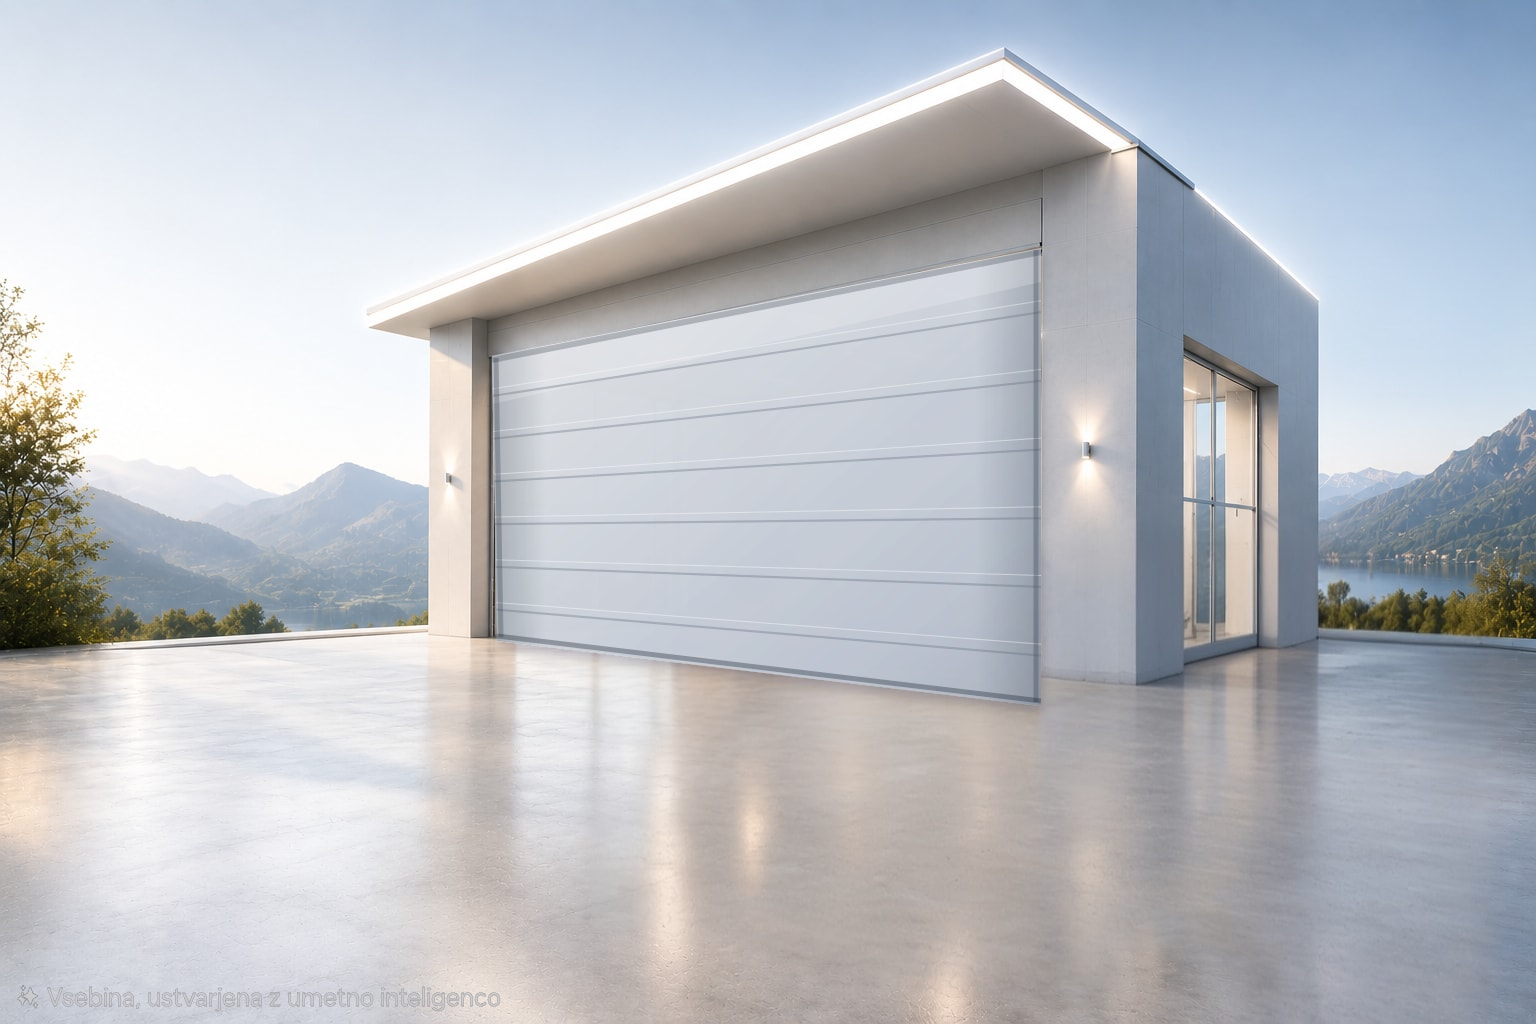
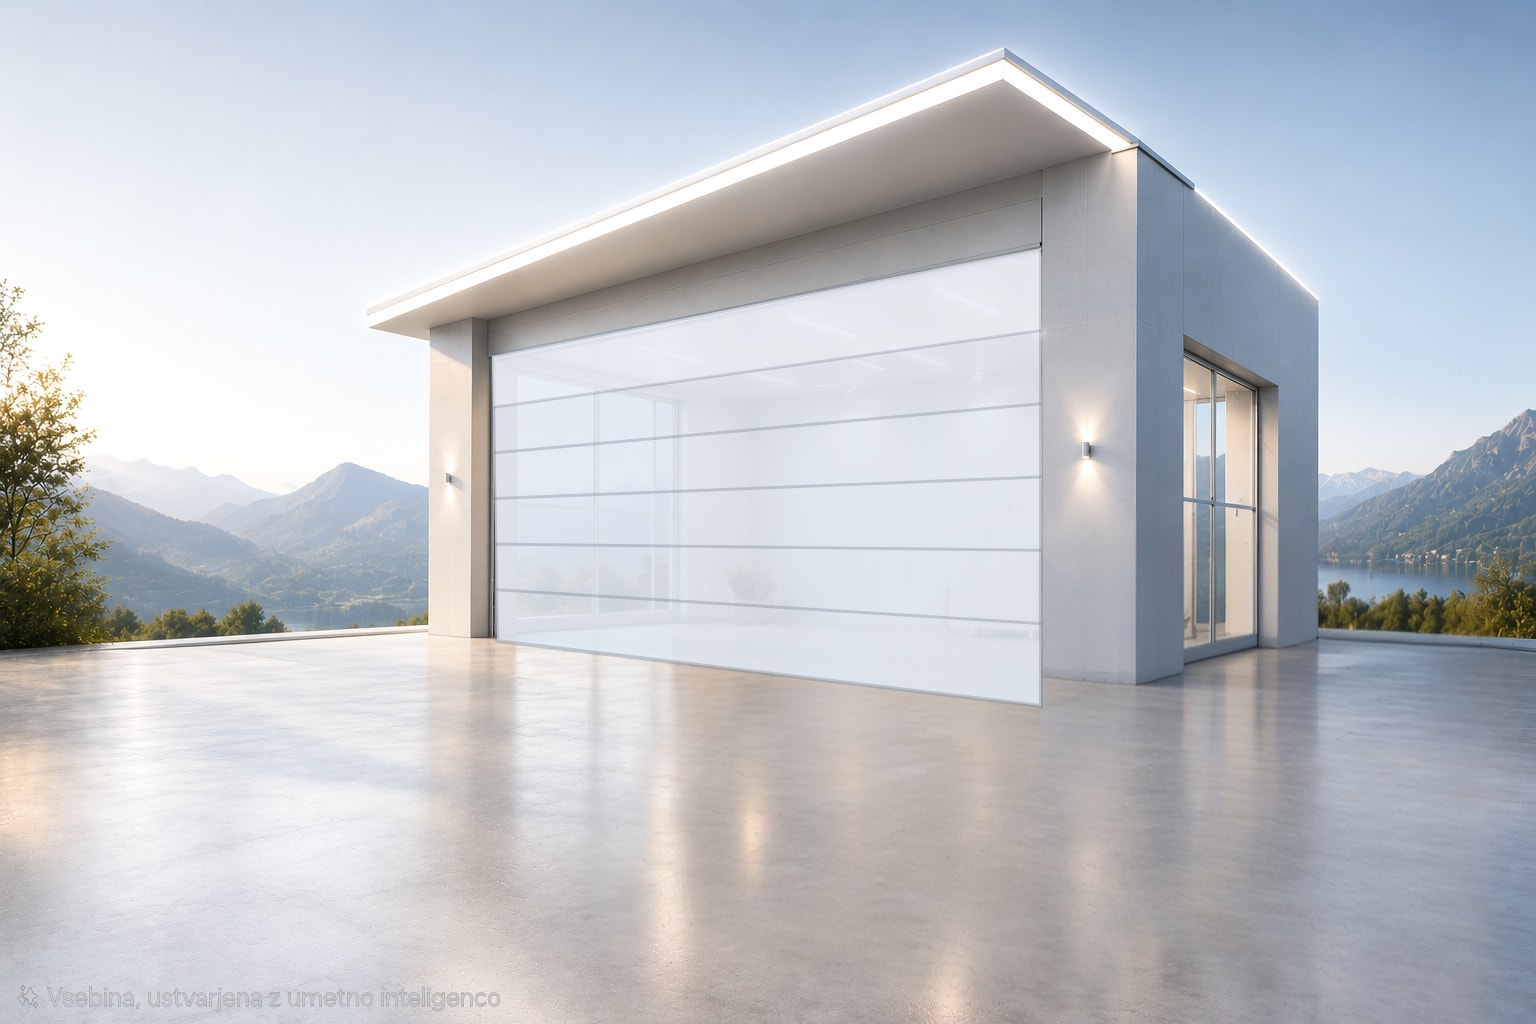
zgladi odpiranje garaze

Changed region(s): [[0.3125, 0.25, 0.6875, 0.6875], [0.3438, 0.3125, 0.4375, 0.3438]]

diff --git a/src/app/domov/page.tsx b/src/app/domov/page.tsx
@@ -150,9 +150,27 @@ export default function DomovPage() {
     return imageUrlWithVersion(raw, car?.slika_updated_at || car?.updated_at || car?.created_at || GARAGE_CACHE_VERSION)
   }
   const isLightTheme = theme === 'svetla'
-  const garageHeroFrames = isLightTheme
-    ? ['/home-garage-closed-light.jpg', '/home-garage-opening-1-light.jpg', '/home-garage-opening-2-light.jpg']
-    : ['/home-garage-closed-dark.jpg', '/home-garage-opening-1-dark.jpg', '/home-garage-opening-2-dark.jpg']
+  const garageHeroFrames = useMemo(() => (
+    isLightTheme
+      ? [
+        '/home-garage-closed-light.jpg',
+        '/home-garage-opening-1-light.jpg',
+        '/home-garage-opening-2-light.jpg',
+        '/home-garage-opening-3-light.jpg',
+        '/home-garage-opening-4-light.jpg',
+        '/home-garage-opening-5-light.jpg',
+        '/home-garage-open-light.jpg',
+      ]
+      : [
+        '/home-garage-closed-dark.jpg',
+        '/home-garage-opening-1-dark.jpg',
+        '/home-garage-opening-2-dark.jpg',
+        '/home-garage-opening-3-dark.jpg',
+        '/home-garage-opening-4-dark.jpg',
+        '/home-garage-opening-5-dark.jpg',
+        '/home-garage-open-dark.jpg',
+      ]
+  ), [isLightTheme])
   const heroImage = garageHeroFrames[Math.min(garageOpeningStep, garageHeroFrames.length - 1)]
 
   const carNameById = useMemo(() => {
@@ -193,10 +211,19 @@ export default function DomovPage() {
     }
     setGarageOpeningStep(0)
     setGarageOpening(true)
-    window.setTimeout(() => setGarageOpeningStep(1), 700)
-    window.setTimeout(() => setGarageOpeningStep(2), 1550)
-    window.setTimeout(() => router.push('/garaza'), 2850)
+    const frameDuration = 280
+    garageHeroFrames.forEach((_, index) => {
+      window.setTimeout(() => setGarageOpeningStep(index), index * frameDuration)
+    })
+    window.setTimeout(() => router.push('/garaza'), garageHeroFrames.length * frameDuration + 450)
   }
+
+  useEffect(() => {
+    garageHeroFrames.forEach((src) => {
+      const image = new Image()
+      image.src = src
+    })
+  }, [garageHeroFrames])
 
   useEffect(() => {
     const load = async () => {
